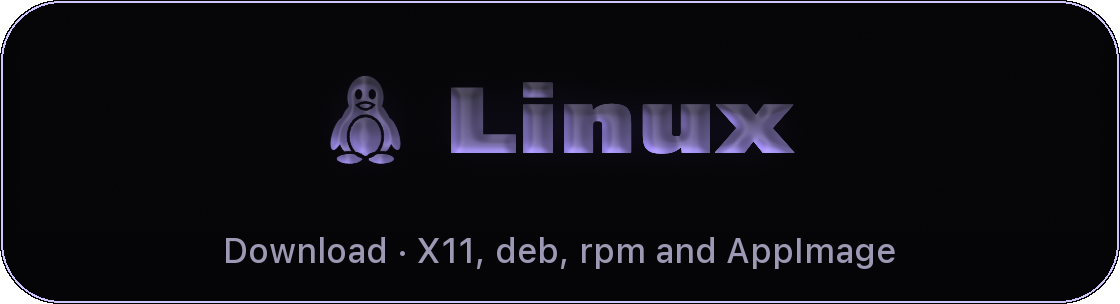
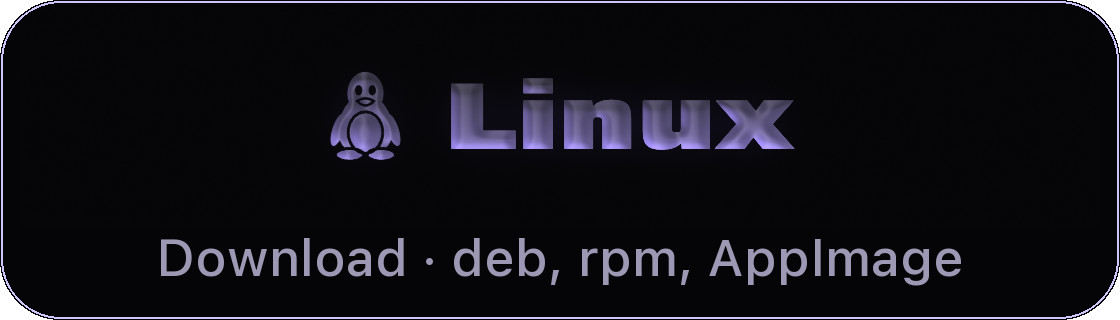
fix(readme): larger, shorter download button captions; build script copies Resources

diff --git a/docs/assets/brand/source/buttons.py b/docs/assets/brand/source/buttons.py
@@ -12,12 +12,12 @@ from pathlib import Path
 from PIL import Image, ImageDraw, ImageFont
 
 BUTTONS = {
-    "mac": "Download · Apple Silicon, macOS 14+",
-    "windows": "Download · Windows 11, x64 and Arm64",
-    "linux": "Download · X11, deb, rpm and AppImage",
+    "mac": "Download · macOS 14+",
+    "windows": "Download · Windows 11",
+    "linux": "Download · deb, rpm, AppImage",
 }
 SCALE = 2
-W, H = 560 * SCALE, 152 * SCALE
+W, H = 560 * SCALE, 160 * SCALE
 RADIUS = 30 * SCALE
 BACKGROUND = (5, 5, 7, 255)  # the glass shader's own background
 BORDER = (139, 124, 246, 110)  # the accent, faint
@@ -29,14 +29,14 @@ def button(glass: Image.Image, caption: str) -> Image.Image:
     shape = Image.new("L", (W, H), 0)
     ImageDraw.Draw(shape).rounded_rectangle((0, 0, W - 1, H - 1), RADIUS, fill=255)
     fill = Image.new("RGBA", (W, H), BACKGROUND)
-    fill.paste(glass.convert("RGBA"), ((W - glass.width) // 2, 4 * SCALE))
+    fill.paste(glass.convert("RGBA"), ((W - glass.width) // 2, 2 * SCALE))
     card.paste(fill, (0, 0), shape)
     draw = ImageDraw.Draw(card)
     draw.rounded_rectangle((1, 1, W - 2, H - 2), RADIUS, outline=BORDER, width=SCALE)
-    font = ImageFont.truetype("/System/Library/Fonts/SFNS.ttf", 17 * SCALE)
+    font = ImageFont.truetype("/System/Library/Fonts/SFNS.ttf", 26 * SCALE)
     # Axes: width, optical size, grade, weight.
     font.set_variation_by_axes([100, 17, 400, 510])
-    draw.text((W / 2, H - 27 * SCALE), caption, font=font, fill=CAPTION, anchor="mm")
+    draw.text((W / 2, H - 32 * SCALE), caption, font=font, fill=CAPTION, anchor="mm")
     return card
 
 

diff --git a/README.md b/README.md
@@ -17,9 +17,9 @@
 </p>
 
 <p align="center">
-  <a href="https://github.com/MF-DEEV/Openbar/releases?q=Mac&expanded=true"><img src="docs/assets/readme/download/mac.png" width="270" alt="Download for Mac: Apple Silicon, macOS 14 or later"></a>
-  <a href="https://github.com/MF-DEEV/Openbar/releases?q=windows&expanded=true"><img src="docs/assets/readme/download/windows.png" width="270" alt="Download for Windows 11, x64 and Arm64"></a>
-  <a href="https://github.com/MF-DEEV/Openbar/releases?q=linux&expanded=true"><img src="docs/assets/readme/download/linux.png" width="270" alt="Download for Linux: X11, deb, rpm and AppImage"></a>
+  <a href="https://github.com/MF-DEEV/Openbar/releases?q=Mac&expanded=true"><img src="docs/assets/readme/download/mac.png" width="270" alt="Download for Mac, macOS 14 or later"></a>
+  <a href="https://github.com/MF-DEEV/Openbar/releases?q=windows&expanded=true"><img src="docs/assets/readme/download/windows.png" width="270" alt="Download for Windows 11"></a>
+  <a href="https://github.com/MF-DEEV/Openbar/releases?q=linux&expanded=true"><img src="docs/assets/readme/download/linux.png" width="270" alt="Download for Linux: deb, rpm, AppImage"></a>
 </p>
 
 <p align="center">

diff --git a/docs/assets/brand/README.md b/docs/assets/brand/README.md
@@ -5,7 +5,7 @@
 | `openbar-hero.gif` | The README banner, a six-second loop at 1600 × 450. |
 | `openbar-hero.png` | A still frame of the banner. |
 | `social-preview.png` | The repository's social preview, 1280 × 640. |
-| `../readme/download/*.png` | The README's download buttons for Mac, Windows and Linux, 1120 × 304. |
+| `../readme/download/*.png` | The README's download buttons for Mac, Windows and Linux, 1120 × 320. |
 
 ## How the banner is made
 
